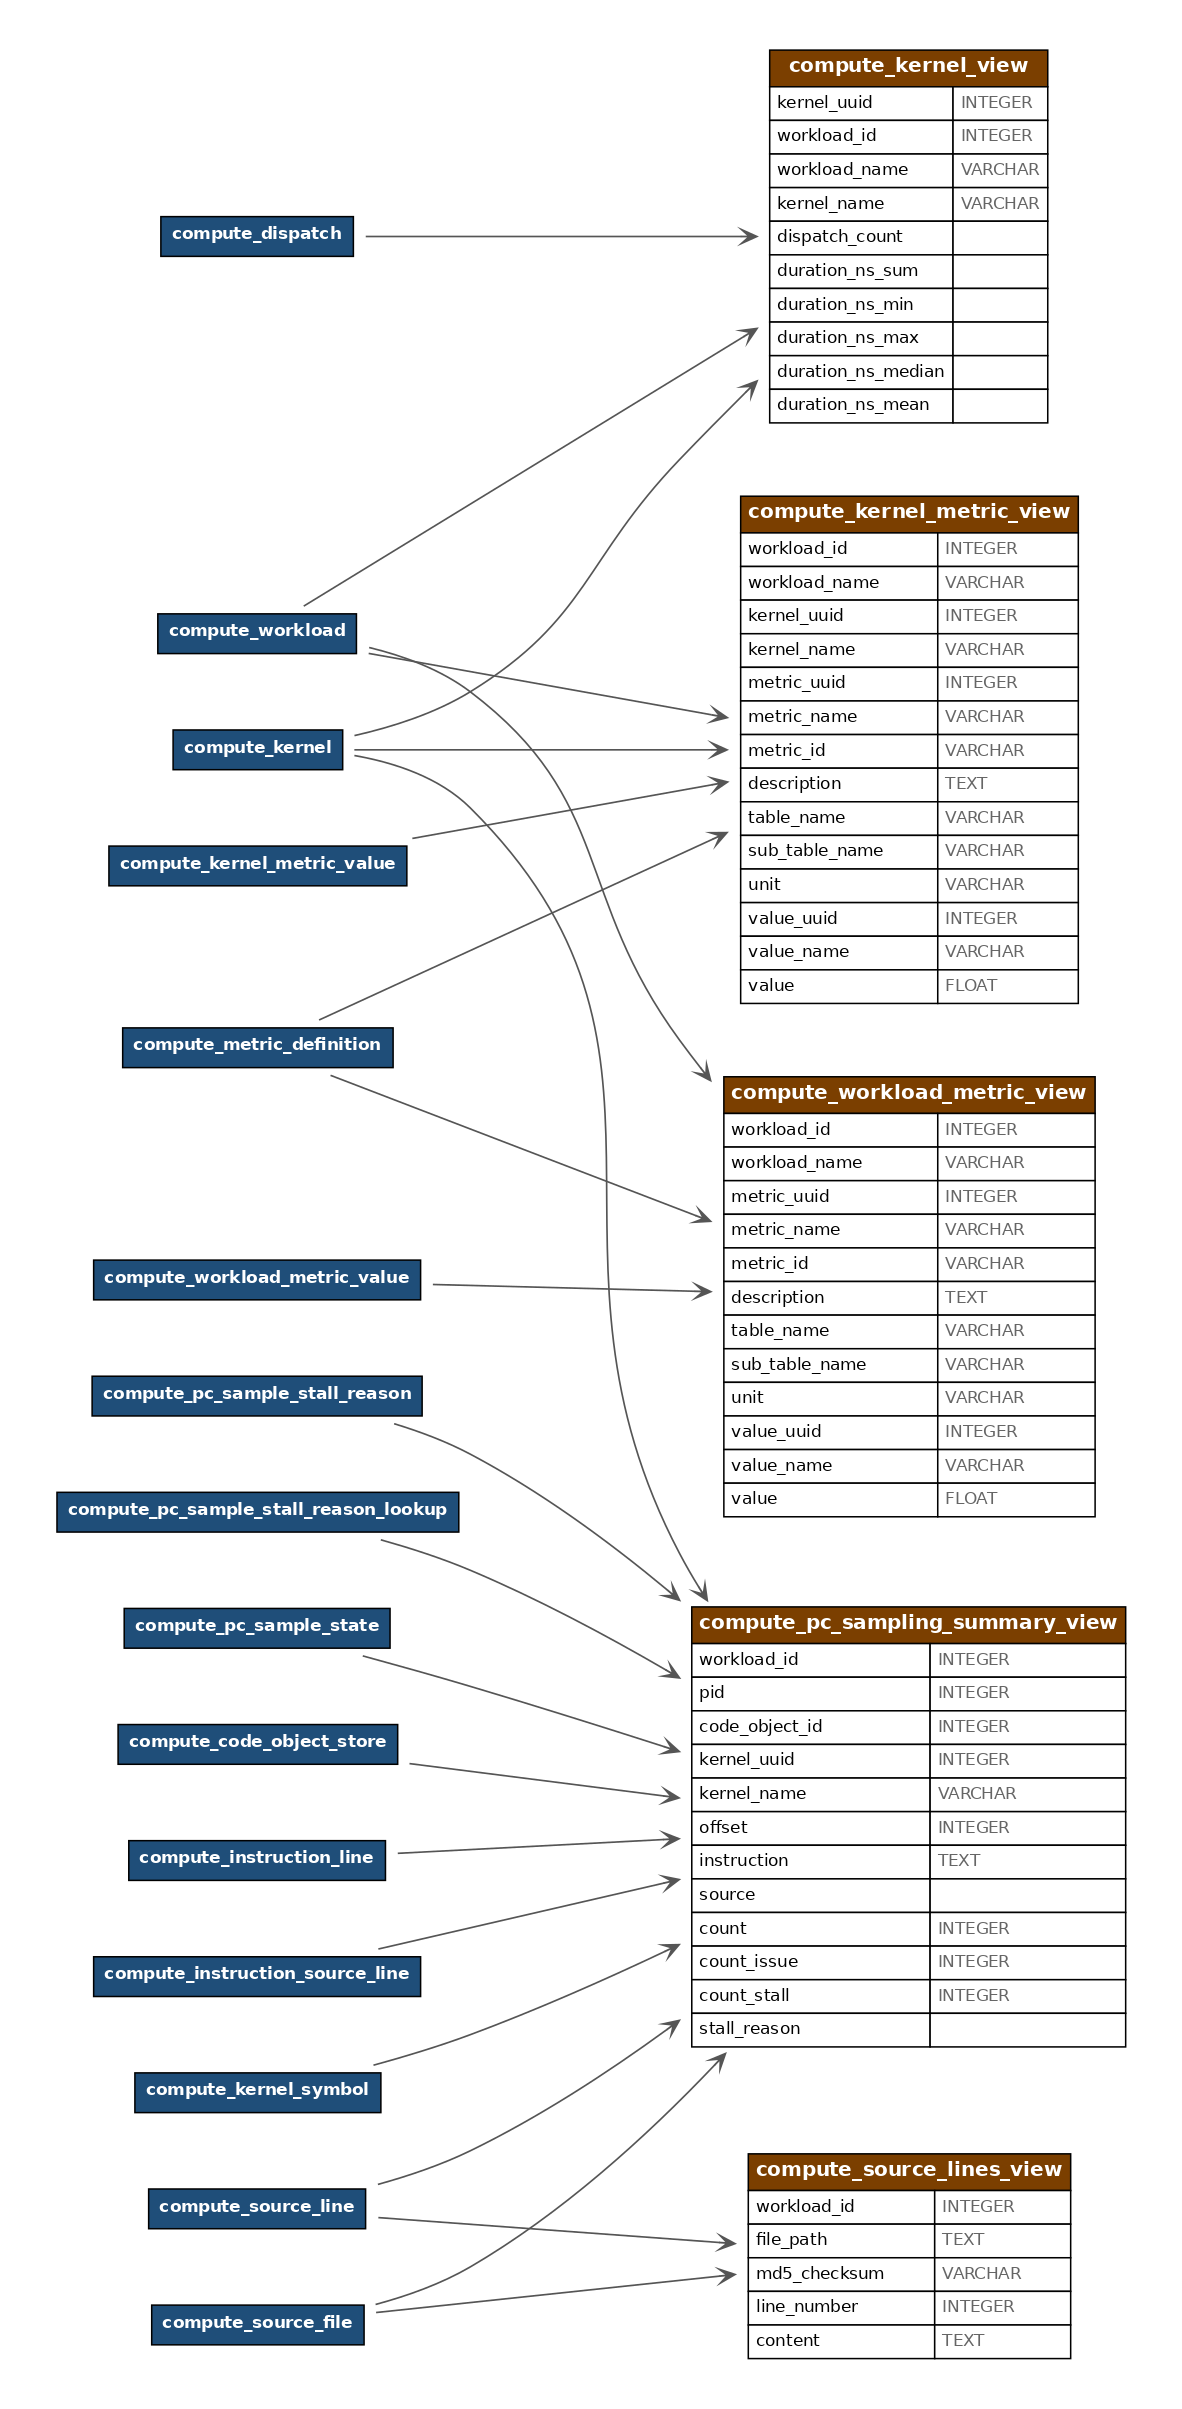
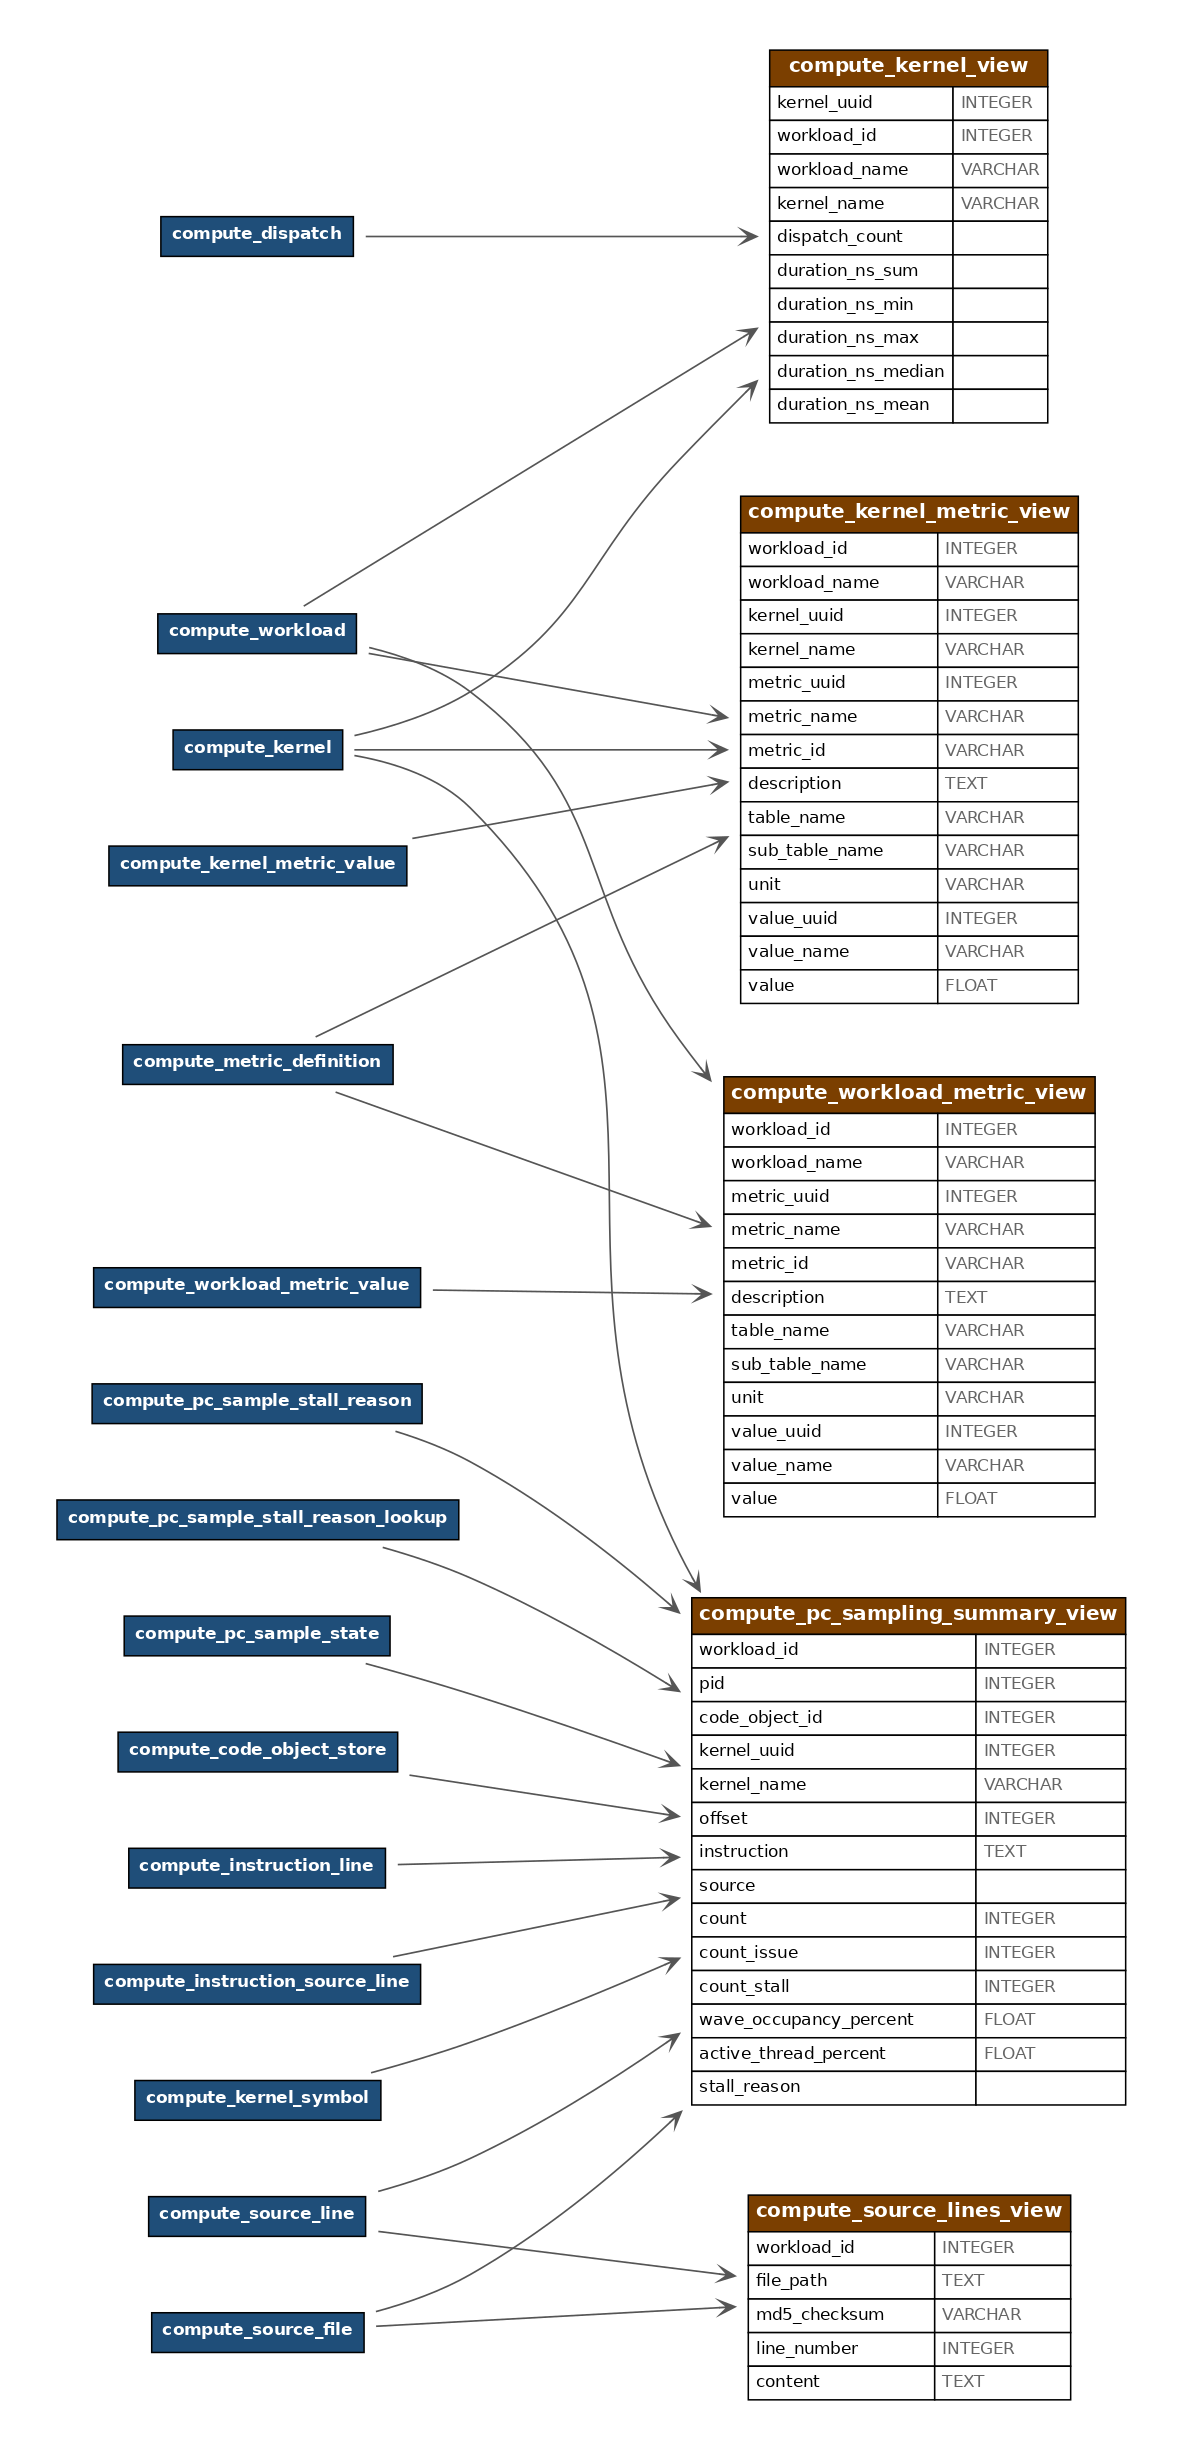
Surface wave metrics on the PC sampling summary view

diff --git a/projects/rocprofiler-compute/tests/integration/test_pc_sampling_analyze_cli.py b/projects/rocprofiler-compute/tests/integration/test_pc_sampling_analyze_cli.py
@@ -156,13 +156,14 @@ def test_pc_sampling_analyze_database_output(
             ).fetchone()[0]
             db_pc_sampling = pd.read_sql_query(
                 "SELECT kernel_name, offset, instruction, source, count, "
-                "count_issue, count_stall, stall_reason "
+                "count_issue, count_stall, wave_occupancy_percent, "
+                "active_thread_percent, stall_reason "
                 "FROM compute_pc_sampling_summary_view "
                 "ORDER BY kernel_name, offset",
                 conn,
             )
-            # Derived wave metrics live on the state table; the summary view
-            # does not carry them.
+            # Derived wave metrics live on the state table; read them straight
+            # from it so the summary view's copy is checked independently.
             db_wave_metrics = pd.read_sql_query(
                 "SELECT active_thread_percent, wave_occupancy_percent "
                 "FROM compute_pc_sample_state",
@@ -221,6 +222,17 @@ def test_pc_sampling_analyze_database_output(
             .between(0, 100, inclusive="right")
             .all()
         )
+        percent_columns = [
+            "wave_occupancy_percent",
+            "active_thread_percent",
+        ]
+        assert db_pc_sampling[percent_columns].notna().all().all()
+        assert db_pc_sampling[percent_columns].ge(0).all().all()
+        assert db_pc_sampling[percent_columns].le(100).all().all()
+        # vcopy is fully converged: every wave64 lane is active.
+        assert db_pc_sampling["active_thread_percent"].eq(100.0).all()
+        assert db_pc_sampling["wave_occupancy_percent"].gt(0).all()
+        assert db_pc_sampling["wave_occupancy_percent"].le(100).all()
         assert pc_sampling_views == [("compute_pc_sampling_summary_view",)]
         assert db_dispatch_count == 3
         assert db_code_object_process_ids == [(698961,)]
@@ -303,6 +315,12 @@ def test_pc_sampling_analyze_csv_output(
         assert len(csv_pc_sampling) == 19
         assert csv_pc_sampling["count"].sum() == 857
         assert set(csv_pc_sampling["pid"]) == {698961}
+        percent_columns = [
+            "wave_occupancy_percent",
+            "active_thread_percent",
+        ]
+        assert set(percent_columns) <= set(csv_pc_sampling.columns)
+        assert csv_pc_sampling[percent_columns].notna().all().all()
         assert csv_kernel.iloc[0]["dispatch_count"] == 3
         csv_source_lines = pd.read_csv(csv_dir / "source_lines.csv")
         assert set(csv_source_lines["file_path"]) == {
@@ -311,6 +329,26 @@ def test_pc_sampling_analyze_csv_output(
         }
         # Every sampling row must resolve to a kernel the kernel view exposes.
         assert set(csv_pc_sampling["kernel_uuid"]) <= set(csv_kernel["kernel_uuid"])
+
+        isa_percent_columns = [
+            "Wave occupancy percent",
+            "Active thread percent",
+        ]
+        isa_csv_paths = sorted((csv_dir / "per_kernel_pc_sampling").rglob("*.csv"))
+        assert isa_csv_paths
+        has_populated_sample_metrics = False
+        for isa_csv_path in isa_csv_paths:
+            isa_rows = pd.read_csv(isa_csv_path)
+            if not set(isa_percent_columns) <= set(isa_rows.columns):
+                continue
+            sampled_isa_rows = isa_rows.loc[isa_rows["Total count"].notna()]
+            if (
+                not sampled_isa_rows.empty
+                and sampled_isa_rows[isa_percent_columns].notna().all().all()
+            ):
+                has_populated_sample_metrics = True
+                break
+        assert has_populated_sample_metrics
     finally:
         common.clean_output_dir(True, str(workload_dir))
 

diff --git a/projects/rocprofiler-compute/tests/unit/utils/test_analysis_orm.py b/projects/rocprofiler-compute/tests/unit/utils/test_analysis_orm.py
@@ -40,6 +40,8 @@ PC_SAMPLING_SUMMARY_VIEW_COLUMNS = [
     "count",
     "count_issue",
     "count_stall",
+    "wave_occupancy_percent",
+    "active_thread_percent",
     "stall_reason",
 ]
 
@@ -144,6 +146,8 @@ def add_pc_sampling_state(
     total_count: int = 3,
     issue_count: int | None = 1,
     stall_count: int | None = 2,
+    wave_occupancy_percent: float | None = None,
+    active_thread_percent: float | None = None,
     stall_reasons: dict[str, int] | None = None,
     code_object_id: int = 5,
 ) -> PCSampleState:
@@ -164,6 +168,8 @@ def add_pc_sampling_state(
         total_count=total_count,
         issue_count=issue_count,
         stall_count=stall_count,
+        wave_occupancy_percent=wave_occupancy_percent,
+        active_thread_percent=active_thread_percent,
         instruction_line=instruction_line,
     )
     session.add(sample_state)
@@ -497,6 +503,8 @@ def test_pc_sampling_summary_view_flattens_normalized_tables(db_session):
         workload=workload,
         kernel=kernel,
         pid=42,
+        wave_occupancy_percent=75.0,
+        active_thread_percent=50.0,
         stall_reasons={"WAITCNT": 2},
     )
     Database.create_views()
@@ -515,13 +523,15 @@ def test_pc_sampling_summary_view_flattens_normalized_tables(db_session):
             "count": 3,
             "count_issue": 1,
             "count_stall": 2,
+            "wave_occupancy_percent": 75.0,
+            "active_thread_percent": 50.0,
             "stall_reason": {"WAITCNT": 2},
         }
     ]
 
 
-def test_pc_sample_state_placeholder_columns_default_to_none(db_session):
-    """The unpopulated PCSampleState columns exist and stay null."""
+def test_pc_sample_state_optional_metrics_and_dispatch_default_to_none(db_session):
+    """Optional metrics default to null; the dispatch placeholder stays null."""
     workload = Workload(name="w", sub_name="s")
     kernel = Kernel(kernel_name="vecCopy", workload=workload)
     sample_state = add_pc_sampling_state(

diff --git a/projects/rocprofiler-compute/src/utils/analysis_orm.py b/projects/rocprofiler-compute/src/utils/analysis_orm.py
@@ -1031,6 +1031,8 @@ class Database:
                 PCSampleState.total_count.label("count"),
                 PCSampleState.issue_count.label("count_issue"),
                 PCSampleState.stall_count.label("count_stall"),
+                PCSampleState.wave_occupancy_percent,
+                PCSampleState.active_thread_percent,
                 stall_reason_json_subquery.c.stall_reason,
             )
             .select_from(PCSampleState)

diff --git a/projects/rocprofiler-compute/docs/how-to/pc_sampling.rst b/projects/rocprofiler-compute/docs/how-to/pc_sampling.rst
@@ -209,9 +209,14 @@ Each file holds one row per instruction line, ordered by code object offset:
    * - ``Stall count``
      - Samples where the wave was stalled. Empty for ``host_trap``.
    * - ``Wave occupancy percent``
-     - Reserved; not yet collected, so empty on every row.
+     - Mean resident wave count at this instruction, divided by the accelerator's
+       maximum waves per compute unit, as a percentage from 0 to 100. Higher
+       values indicate greater wave-level resource pressure. Empty for
+       ``host_trap`` because those records do not carry a wave count.
    * - ``Active thread percent``
-     - Reserved; not yet collected, so empty on every row.
+     - Mean number of unmasked lanes at this instruction, divided by the
+       machine's wave size, as a percentage from 0 to 100. Lower values indicate
+       more control-flow divergence. Populated under both sampling methods.
    * - ``Stall <REASON>``
      - Samples stalled at this instruction for that reason.
    * - ``Source``

diff --git a/projects/rocprofiler-compute/CHANGELOG.md b/projects/rocprofiler-compute/CHANGELOG.md
@@ -9,6 +9,13 @@ Full documentation for ROCm Compute Profiler is available at [https://rocm.docs.
 
 * Added the `LDS Utilization` metric to the gfx115x Memory Chart.
 
+* Derived and populated the existing `compute_pc_sample_state` columns
+  `active_thread_percent` and `wave_occupancy_percent` from collected samples,
+  and emitted them in per-kernel ISA CSVs. Both are additionally surfaced in
+  `compute_pc_sampling_summary_view` and `pc_sampling_summary.csv`.
+  `wave_occupancy_percent` is absent for `host_trap`, whose records lack a wave
+  count.
+
 ### Changed
 
 * gfx115x Memory Chart improvements.
